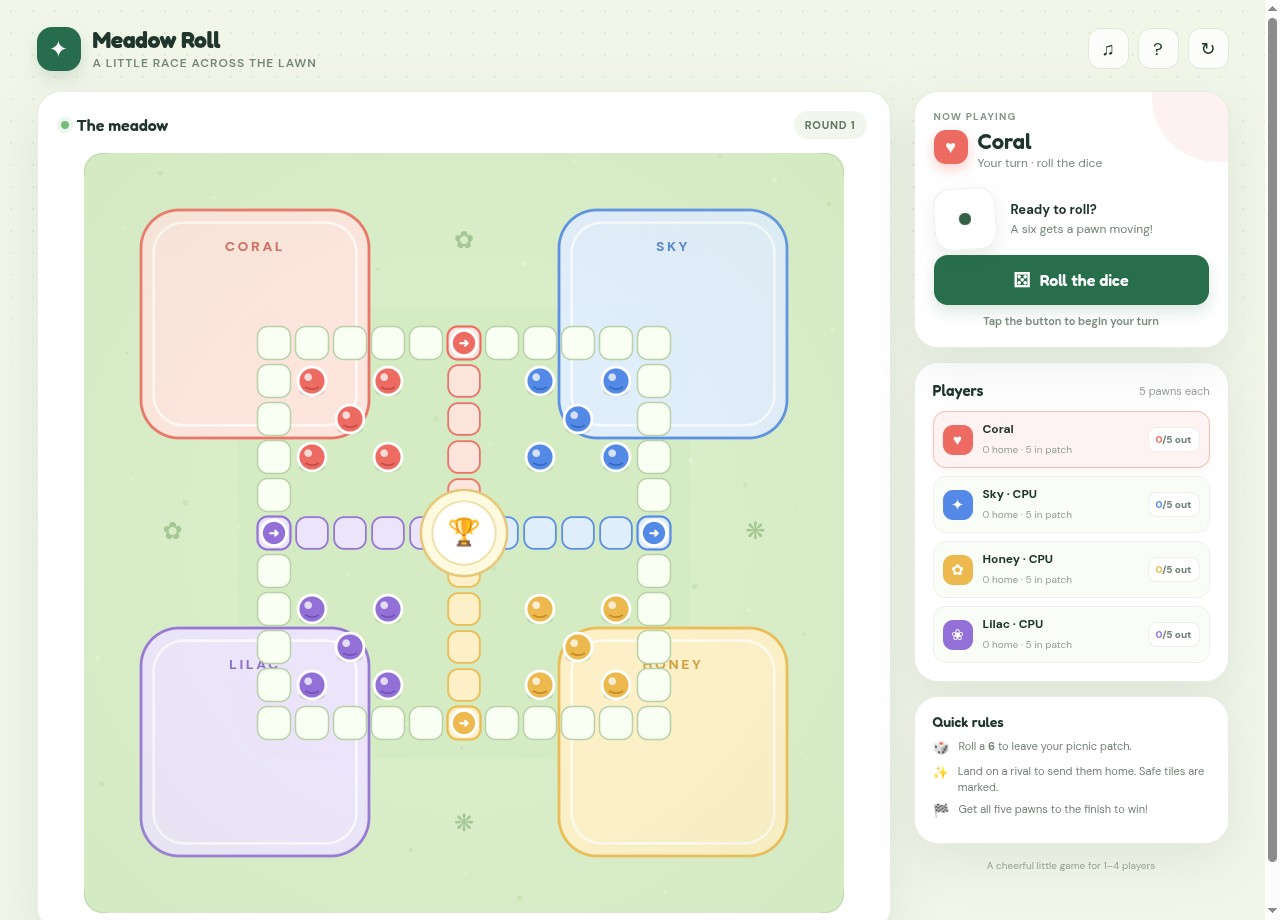
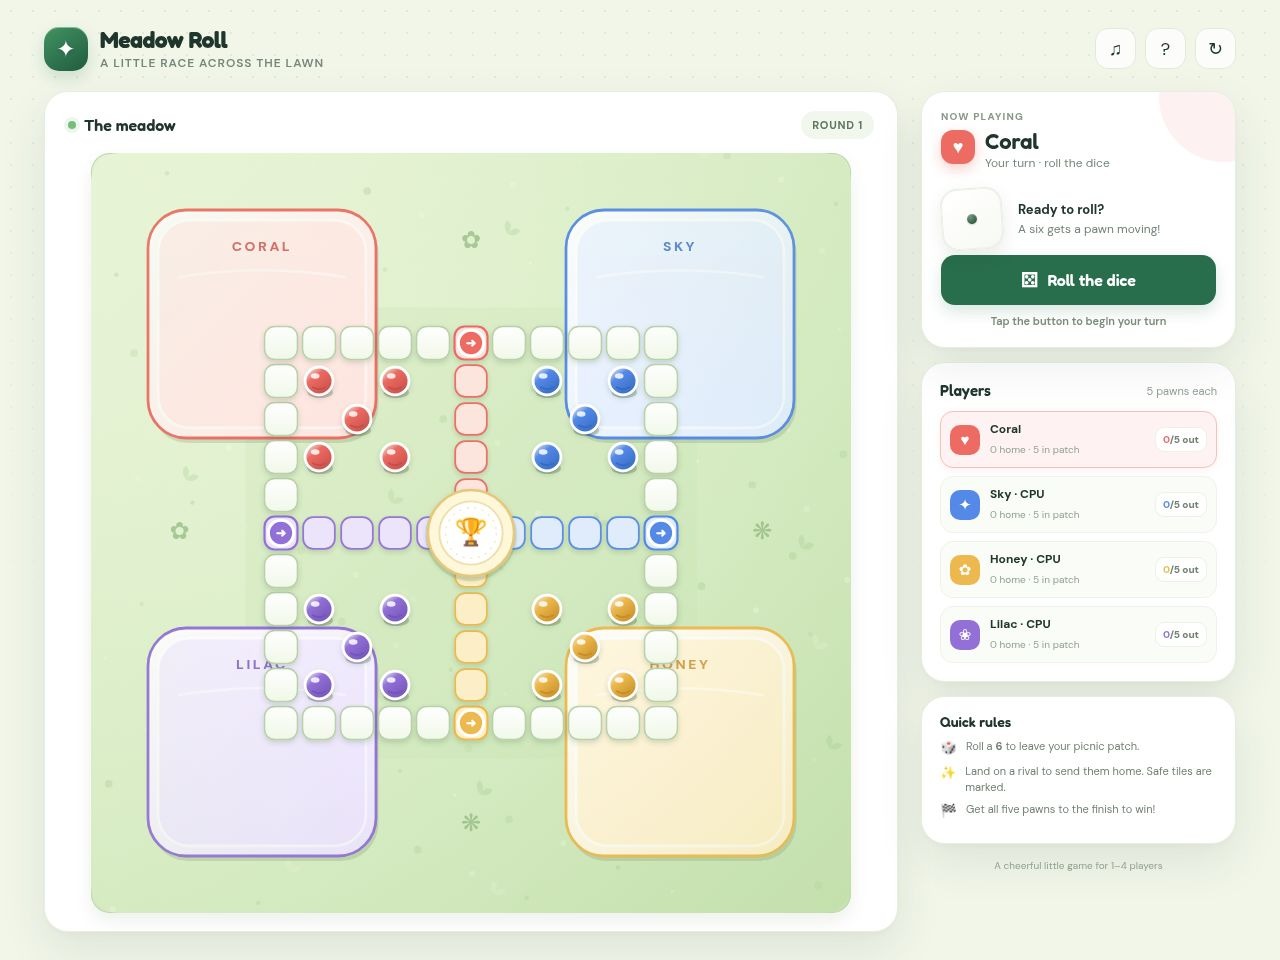
Publish static build for issue #2
Run: 43304931726
Attempt: 1
Generation: 5
Source: 047e4c399a43c13aad24060ff325a0cad421de42

diff --git a/index.html b/index.html
@@ -11,11 +11,11 @@
 *{box-sizing:border-box}body{margin:0;min-height:100vh;background:#f1f6e9;color:var(--ink);font-family:'DM Sans',sans-serif;overflow-x:hidden}
 body:before{content:"";position:fixed;inset:0;pointer-events:none;opacity:.22;background-image:radial-gradient(#9dbb87 1px,transparent 1px);background-size:22px 22px;mask-image:linear-gradient(to bottom,black,transparent 70%)}
 button{font:inherit;color:inherit}.app{max-width:1260px;margin:auto;padding:26px 34px 32px;position:relative}
-.topbar{display:flex;align-items:center;justify-content:space-between;margin-bottom:20px}.brand{display:flex;align-items:center;gap:12px}.brand-mark{width:44px;height:44px;border-radius:15px;background:#276c4c;display:grid;place-items:center;box-shadow:0 7px 16px #2868452b;color:#fff;font-size:23px}.brand h1{font:700 23px 'Fredoka',sans-serif;margin:0;letter-spacing:-.4px}.brand p{margin:2px 0 0;color:var(--muted);font-size:12px;font-weight:600;letter-spacing:.08em;text-transform:uppercase}.top-actions{display:flex;gap:9px}.icon-btn{width:41px;height:41px;border:1px solid #e1e9da;background:#ffffffc9;border-radius:13px;cursor:pointer;font-size:18px;transition:.18s}.icon-btn:hover{transform:translateY(-2px);background:white;box-shadow:0 5px 15px #213c2414}
-.main{display:grid;grid-template-columns:minmax(0,1fr) 315px;gap:23px;align-items:start}.board-card,.side-card{background:#fff;border:1px solid #e7eee1;border-radius:24px;box-shadow:var(--shadow)}.board-card{padding:18px;overflow:hidden}.board-top{display:flex;justify-content:space-between;align-items:center;padding:1px 5px 14px}.board-title{font:600 16px 'Fredoka',sans-serif;display:flex;align-items:center;gap:8px}.live-dot{height:8px;width:8px;border-radius:50%;background:#75bd79;box-shadow:0 0 0 4px #75bd7921}.turn-pill{padding:7px 11px;background:#f2f7ed;border-radius:999px;color:#607660;font-weight:700;font-size:11px;letter-spacing:.07em;text-transform:uppercase}.board-wrap{position:relative;max-width:760px;margin:auto;aspect-ratio:1;border-radius:19px;overflow:hidden;background:#d9edc9;box-shadow:inset 0 0 0 1px #bfd8b0}
+.topbar{display:flex;align-items:center;justify-content:space-between;margin-bottom:20px}.brand{display:flex;align-items:center;gap:12px}.brand-mark{width:44px;height:44px;border-radius:15px;background:linear-gradient(145deg,#429363,#205b3e);display:grid;place-items:center;box-shadow:0 7px 16px #2868452b,inset 0 1px 0 #ffffff66;color:#fff;font-size:23px;text-shadow:0 2px 3px #174b3244}.brand h1{font:700 23px 'Fredoka',sans-serif;margin:0;letter-spacing:-.4px}.brand p{margin:2px 0 0;color:var(--muted);font-size:12px;font-weight:600;letter-spacing:.08em;text-transform:uppercase}.top-actions{display:flex;gap:9px}.icon-btn{width:41px;height:41px;border:1px solid #e1e9da;background:#ffffffc9;border-radius:13px;cursor:pointer;font-size:18px;transition:.18s}.icon-btn:hover{transform:translateY(-2px);background:white;box-shadow:0 5px 15px #213c2414}
+.main{display:grid;grid-template-columns:minmax(0,1fr) 315px;gap:23px;align-items:start}.board-card,.side-card{background:#fff;border:1px solid #e7eee1;border-radius:24px;box-shadow:0 18px 48px #243a2917,0 3px 9px #243a2908,inset 0 1px 0 #ffffff}.board-card{padding:18px;overflow:hidden}.board-top{display:flex;justify-content:space-between;align-items:center;padding:1px 5px 14px}.board-title{font:600 16px 'Fredoka',sans-serif;display:flex;align-items:center;gap:8px}.live-dot{height:8px;width:8px;border-radius:50%;background:#75bd79;box-shadow:0 0 0 4px #75bd7921}.turn-pill{padding:7px 11px;background:#f2f7ed;border-radius:999px;color:#607660;font-weight:700;font-size:11px;letter-spacing:.07em;text-transform:uppercase}.board-wrap{position:relative;max-width:760px;margin:auto;aspect-ratio:1;border-radius:19px;overflow:hidden;background:linear-gradient(145deg,#eaf5dc,#cce4b8);box-shadow:inset 0 0 0 1px #bfd8b0,0 8px 18px #3d603017}
 #board{display:block;width:100%;height:100%}.board-under{position:absolute;inset:0;pointer-events:none;background:radial-gradient(ellipse at 50% 50%,transparent 42%,#b5d59a22 100%)}
 .sidebar{display:flex;flex-direction:column;gap:14px}.side-card{padding:18px}.turn-card{position:relative;overflow:hidden;padding:18px 19px 16px}.turn-card:after{content:"";position:absolute;width:130px;height:130px;border-radius:50%;right:-54px;top:-60px;background:var(--active,#74a970);opacity:.09}.eyebrow{font-size:10px;font-weight:800;letter-spacing:.12em;text-transform:uppercase;color:#879889}.turn-name{font:600 22px 'Fredoka',sans-serif;margin:5px 0 1px}.turn-sub{font-size:12px;color:var(--muted)}.turn-line{display:flex;align-items:center;gap:10px}.player-badge{width:34px;height:34px;border-radius:12px;background:var(--active,#74a970);display:grid;place-items:center;color:#fff;font-size:18px;box-shadow:0 5px 13px color-mix(in srgb,var(--active,#74a970) 32%,transparent)}
-.dice-zone{display:flex;align-items:center;gap:15px;padding:17px 0 5px}.dice{width:62px;height:62px;border-radius:17px;background:#fff;box-shadow:0 7px 18px #293e2018,inset 0 0 0 1px #edf0e9;display:grid;grid-template:repeat(3,1fr)/repeat(3,1fr);padding:11px;gap:3px;transform:rotate(-4deg);transition:transform .25s}.dice.rolling{animation:roll .5s ease-in-out}@keyframes roll{0%{transform:rotate(-4deg) scale(1)}40%{transform:rotate(95deg) scale(.8)}100%{transform:rotate(356deg) scale(1)}}.pip{border-radius:50%;background:#355f45;opacity:0}.pip.on{opacity:1}.dice-hint{font-size:12px;line-height:1.55;color:#718174}.dice-hint strong{display:block;font-size:13px;color:var(--ink)}
+.dice-zone{display:flex;align-items:center;gap:15px;padding:17px 0 5px}.dice{width:62px;height:62px;border-radius:17px;background:#fff;box-shadow:0 7px 18px #293e2018,inset 0 0 0 1px #edf0e9;display:grid;grid-template:repeat(3,1fr)/repeat(3,1fr);padding:11px;gap:3px;transform:rotate(-4deg);transition:transform .25s}.dice.rolling{animation:roll .5s ease-in-out}@keyframes roll{0%{transform:rotate(-4deg) scale(1)}40%{transform:rotate(95deg) scale(.8)}100%{transform:rotate(356deg) scale(1)}}.pip{border-radius:50%;background:radial-gradient(circle at 35% 30%,#72947b,#355f45 70%);opacity:0;box-shadow:inset 0 1px 1px #ffffff55,0 1px 2px #1f382b30}.pip.on{opacity:1}.dice{background:linear-gradient(145deg,#fff 10%,#f6f9f2 100%);border:1px solid #e8eee3}.dice-hint{font-size:12px;line-height:1.55;color:#718174}.dice-hint strong{display:block;font-size:13px;color:var(--ink)}
 .roll-btn{width:100%;border:0;border-radius:14px;background:#286e4c;color:white;font:600 16px 'Fredoka',sans-serif;padding:13px 15px;box-shadow:0 7px 15px #286e4c2b;cursor:pointer;transition:.16s;display:flex;align-items:center;justify-content:center;gap:9px}.roll-btn:hover:not(:disabled){background:#205f40;transform:translateY(-2px);box-shadow:0 10px 19px #286e4c38}.roll-btn:disabled{opacity:.55;cursor:not-allowed;box-shadow:none}.roll-btn span{font-size:20px}.select-hint{min-height:17px;text-align:center;margin:9px 0 0;font-size:11px;color:#7a8a7c;font-weight:600}
 .players-heading{display:flex;align-items:center;justify-content:space-between;margin-bottom:11px}.players-heading h2{font:600 15px 'Fredoka',sans-serif;margin:0}.players-heading span{color:#93a094;font-size:11px}.player-list{display:flex;flex-direction:column;gap:8px}.player-row{display:flex;align-items:center;gap:10px;padding:9px;border-radius:13px;background:#fafcf8;border:1px solid #eff2ec;transition:.18s}.player-row.active{border-color:color-mix(in srgb,var(--c) 44%,white);background:color-mix(in srgb,var(--c) 8%,white);box-shadow:0 3px 9px color-mix(in srgb,var(--c) 8%,transparent)}.player-icon{width:30px;height:30px;border-radius:10px;background:var(--c);color:white;display:grid;place-items:center;font-size:15px}.player-info{flex:1;min-width:0}.player-info b{font-size:12px;display:block}.player-info small{color:#91a092;font-size:10px}.pawn-count{background:white;border:1px solid #edf1e9;border-radius:9px;padding:5px 7px;font-size:10px;font-weight:800;color:#718174;white-space:nowrap}.pawn-count em{font-style:normal;color:var(--c)}
 .rules{padding:16px 18px}.rules h3{margin:0 0 9px;font:600 14px 'Fredoka',sans-serif}.rule-line{display:flex;gap:9px;margin:7px 0;align-items:flex-start;color:#738174;font-size:11px;line-height:1.4}.rule-icon{font-size:13px;width:17px;text-align:center}.bottom-note{text-align:center;color:#91a18e;font-size:10px;padding-top:1px}
@@ -62,21 +62,23 @@ function cellPoint(coord){return[90+coord[0]*30,90+coord[1]*30]}
 function trackCoord(player,progress){if(progress<40)return TRACK[(COLORS[player].start+progress)%40];return HOME_LANES[player][progress-40]}
 function svgText(parent,x,y,text,attrs={}){const t=svg('text',{x,y,...attrs},parent);t.textContent=text;return t}
 function buildBoard(){const board=$('#board');board.innerHTML='';
- svg('rect',{x:0,y:0,width:600,height:600,rx:22,fill:'#d9edc9'},board);
+  const defs=svg('defs',{},board),grass=svg('linearGradient',{id:'grassGradient',x1:'0',y1:'0',x2:'1',y2:'1'},defs);svg('stop',{offset:'0','stop-color':'#eff8df'},grass);svg('stop',{offset:'.55','stop-color':'#d9edc6'},grass);svg('stop',{offset:'1','stop-color':'#c6e1af'},grass);const tile=svg('linearGradient',{id:'tileGradient',x1:'0',y1:'0',x2:'0',y2:'1'},defs);svg('stop',{offset:'0','stop-color':'#fff'},tile);svg('stop',{offset:'1','stop-color':'#f1f8e9'},tile);const shadow=svg('filter',{id:'softShadow',x:'-40%',y:'-40%',width:'180%',height:'190%'},defs);svg('feDropShadow',{dx:'0',dy:'2',stdDeviation:'2','flood-color':'#35573a','flood-opacity':'.2'},shadow);COLORS.forEach((col,p)=>{const pg=svg('linearGradient',{id:'pawnGradient'+p,x1:'0',y1:'0',x2:'0.8',y2:'1'},defs);svg('stop',{offset:'0','stop-color':'#fff','stop-opacity':'.48'},pg);svg('stop',{offset:'.38','stop-color':col.hex},pg);svg('stop',{offset:'1','stop-color':col.dark},pg);const bg=svg('linearGradient',{id:'baseGradient'+p,x1:'0',y1:'0',x2:'1',y2:'1'},defs);svg('stop',{offset:'0','stop-color':'#fff'},bg);svg('stop',{offset:'1','stop-color':col.light},bg)});
+ svg('rect',{x:0,y:0,width:600,height:600,rx:22,fill:'url(#grassGradient)'},board);
  // softly mottled grass texture
- for(let i=0;i<64;i++){const x=(i*89+31)%600,y=(i*137+59)%600;svg('circle',{cx:x,cy:y,r:1.2+(i%3)*.5,fill:i%2?'#b7d99f':'#eef8df',opacity:.45},board)}
+ for(let i=0;i<120;i++){const x=(i*89+31)%600,y=(i*137+59)%600,r=1.1+(i%4)*.65;svg('circle',{cx:x,cy:y,r,fill:i%2?'#a9cf91':'#f6ffe9',opacity:.25+(i%3)*.06},board)}
+  for(let i=0;i<24;i++){const x=(i*173+42)%600,y=(i*97+21)%600;svg('path',{d:`M${x} ${y}q-5 -7 0 -11q5 5 0 11m0 0q5 -7 10 -3q-3 6 -10 3`,fill:i%2?'#88b875':'#f5f9df',opacity:.2},board)}
  svg('rect',{x:122,y:122,width:356,height:356,rx:30,fill:'#c8e3b4',opacity:.28},board);
  // four picnic home patches
  const bases=[{x:45,y:45,c:0},{x:375,y:45,c:1},{x:375,y:375,c:2},{x:45,y:375,c:3}];
- bases.forEach(({x,y,c})=>{const col=COLORS[c];svg('rect',{x,y,width:180,height:180,rx:30,fill:col.light,stroke:col.hex,'stroke-width':2.2,opacity:.94},board);svg('rect',{x:x+10,y:y+10,width:160,height:160,rx:24,fill:'none',stroke:'#ffffff','stroke-width':2,opacity:.75},board);svgText(board,x+90,y+32,col.name.toUpperCase(),{'text-anchor':'middle','font-size':11,'font-weight':800,'letter-spacing':2,fill:col.dark,opacity:.8});});
+ bases.forEach(({x,y,c})=>{const col=COLORS[c];svg('rect',{x:x+2,y:y+4,width:180,height:180,rx:30,fill:'#536d4930'},board);svg('rect',{x,y,width:180,height:180,rx:30,fill:`url(#baseGradient${c})`,stroke:col.hex,'stroke-width':2.2,opacity:.97},board);svg('rect',{x:x+8,y:y+8,width:164,height:164,rx:25,fill:col.light,stroke:'#ffffff','stroke-width':2,opacity:.52},board);svg('path',{d:`M${x+24} ${y+53} Q${x+90} ${y+42} ${x+156} ${y+53}`,fill:'none',stroke:'#fff','stroke-width':2,opacity:.45},board);svgText(board,x+90,y+32,col.name.toUpperCase(),{'text-anchor':'middle','font-size':11,'font-weight':800,'letter-spacing':2,fill:col.dark,opacity:.8});});
  // track slabs
- TRACK.forEach((coord,i)=>{const[x,y]=cellPoint(coord);const owner=SAFE.includes(i)?COLORS[i/10]:null;svg('rect',{x:x-13,y:y-13,width:26,height:26,rx:8,fill:owner?owner.light:'#fafff3',stroke:owner?owner.hex:'#b9d1a9','stroke-width':owner?1.7:1.2},board);if(owner){svg('circle',{cx:x,cy:y,r:4,fill:owner.hex,opacity:.55},board);svgText(board,x,y+3.5,'✦',{'text-anchor':'middle','font-size':8,fill:'#fff'})}});
+ TRACK.forEach((coord,i)=>{const[x,y]=cellPoint(coord);const owner=SAFE.includes(i)?COLORS[i/10]:null;svg('rect',{x:x-13,y:y-13,width:26,height:26,rx:8,fill:owner?owner.light:'url(#tileGradient)',stroke:owner?owner.hex:'#b9d1a9','stroke-width':owner?1.7:1.2,filter:'url(#softShadow)'},board);if(owner){svg('circle',{cx:x,cy:y,r:4,fill:owner.hex,opacity:.55},board);svgText(board,x,y+3.5,'✦',{'text-anchor':'middle','font-size':8,fill:'#fff'})}});
  // start arrows / small color launch markers
  COLORS.forEach((col,p)=>{const c=TRACK[col.start],[x,y]=cellPoint(c);svg('circle',{cx:x,cy:y,r:10,fill:col.hex,stroke:'#fff','stroke-width':2.4},board);svgText(board,x,y+3.3,'➜',{'text-anchor':'middle','font-size':10,fill:'#fff','font-weight':800})});
  // home lanes
- HOME_LANES.forEach((lane,p)=>lane.forEach((coord,j)=>{const[x,y]=cellPoint(coord);svg('rect',{x:x-12.5,y:y-12.5,width:25,height:25,rx:8,fill:j===4?COLORS[p].hex:COLORS[p].light,stroke:COLORS[p].hex,'stroke-width':1.4,opacity:j===4?1:.94},board);if(j===4)svgText(board,x,y+5,'★',{'text-anchor':'middle','font-size':14,fill:'#fff'})}));
+ HOME_LANES.forEach((lane,p)=>lane.forEach((coord,j)=>{const[x,y]=cellPoint(coord);svg('rect',{x:x-12.5,y:y-12.5,width:25,height:25,rx:8,fill:j===4?COLORS[p].hex:COLORS[p].light,stroke:COLORS[p].hex,'stroke-width':1.4,opacity:j===4?1:.94,filter:'url(#softShadow)'},board);if(j===4)svgText(board,x,y+5,'★',{'text-anchor':'middle','font-size':14,fill:'#fff'})}));
  // center finish flower
- svg('circle',{cx:300,cy:300,r:34,fill:'#fff9df',stroke:'#e7c779','stroke-width':2},board);svg('circle',{cx:300,cy:300,r:25,fill:'#fff',stroke:'#f0dfab','stroke-width':1.5},board);svgText(board,300,306,'🏆',{'text-anchor':'middle','font-size':21});
+ svg('circle',{cx:300,cy:302,r:36,fill:'#718a4b30'},board);svg('circle',{cx:300,cy:300,r:34,fill:'#fff7d9',stroke:'#e7c779','stroke-width':2,filter:'url(#softShadow)'},board);svg('circle',{cx:300,cy:300,r:25,fill:'#fff',stroke:'#f0dfab','stroke-width':1.5},board);svg('circle',{cx:300,cy:300,r:20,fill:'none',stroke:'#f5e9c2','stroke-width':1,'stroke-dasharray':'2 4'},board);svgText(board,300,306,'🏆',{'text-anchor':'middle','font-size':21});
  // yard pawns: five spots in each home patch
  const yards=[[[3,3],[5,3],[3,5],[5,5],[4,4]],[[9,3],[11,3],[9,5],[11,5],[10,4]],[[9,9],[11,9],[9,11],[11,11],[10,10]],[[3,9],[5,9],[3,11],[5,11],[4,10]]];
  state.players.forEach((player,p)=>player.pawns.forEach((pos,n)=>{if(pos===-1){const[x,y]=cellPoint(yards[p][n]);drawPawn(board,p,n,x,y,true)}}));
@@ -84,7 +86,7 @@ function buildBoard(){const board=$('#board');board.innerHTML='';
  [[70,300],[530,300],[300,70],[300,530]].forEach(([x,y],i)=>{svgText(board,x,y+5,i%2?'❋':'✿',{'text-anchor':'middle','font-size':19,fill:'#80ad70',opacity:.6})});
  drawActivePawns(board);
 }
-function drawPawn(parent,p,n,cx,cy,home=false){const col=COLORS[p],g=svg('g',{class:'pawn '+(home?'yard':'') , 'data-player':p,'data-pawn':n},parent);svg('ellipse',{cx,cy:cy+8,rx:10,ry:4,fill:'#405c3c',opacity:.2},g);svg('circle',{cx,cy,r:11,fill:col.hex,stroke:'#fff','stroke-width':2.2},g);svg('circle',{cx:cx-3,cy:cy-3,r:3,fill:'#fff',opacity:.75},g);svg('path',{d:`M${cx-5} ${cy+5} Q${cx} ${cy+8} ${cx+5} ${cy+5}`,fill:'none',stroke:col.dark,'stroke-width':1.4,'stroke-linecap':'round'},g);if(!home){svg('circle',{cx,cy,r:15,fill:'transparent',stroke:'transparent','stroke-width':2,class:'pawn-ring'},g)}}
+function drawPawn(parent,p,n,cx,cy,home=false){const col=COLORS[p],g=svg('g',{class:'pawn '+(home?'yard':'') , 'data-player':p,'data-pawn':n},parent);svg('ellipse',{cx:cx+1,cy:cy+9,rx:10,ry:4.5,fill:'#304b35',opacity:.25},g);svg('circle',{cx,cy:cy+1,r:12,fill:col.dark,opacity:.22},g);svg('circle',{cx,cy,r:11,fill:`url(#pawnGradient${p})`,stroke:'#fff','stroke-width':2.2,filter:'url(#softShadow)'},g);svg('ellipse',{cx:cx-3,cy:cy-4,rx:3.4,ry:2.2,fill:'#fff',opacity:.83},g);svg('path',{d:`M${cx-5} ${cy+5} Q${cx} ${cy+8} ${cx+5} ${cy+5}`,fill:'none',stroke:col.dark,'stroke-width':1.4,'stroke-linecap':'round'},g);if(!home){svg('circle',{cx,cy,r:15,fill:'transparent',stroke:'transparent','stroke-width':2,class:'pawn-ring'},g)}}
 function drawActivePawns(board){const yards=[[[3,3],[5,3],[3,5],[5,5],[4,4]],[[9,3],[11,3],[9,5],[11,5],[10,4]],[[9,9],[11,9],[9,11],[11,11],[10,10]],[[3,9],[5,9],[3,11],[5,11],[4,10]]];
  state.players.forEach((pl,p)=>pl.pawns.forEach((progress,n)=>{if(progress<0)return;const coord=trackCoord(p,progress),[x,y]=cellPoint(coord);let same=[];state.players.forEach((other,op)=>other.pawns.forEach((v,on)=>{if(v>=0){const cc=trackCoord(op,v);if(cc[0]===coord[0]&&cc[1]===coord[1])same.push([op,on])}}));const idx=same.findIndex(z=>z[0]===p&&z[1]===n),offsets=[[0,0],[-7,-6],[7,-6],[-7,6],[7,6],[-10,0],[10,0]];const o=offsets[idx]||[0,0];drawPawn(board,p,n,x+o[0],y+o[1]);const node=board.lastChild;if(state.phase==='select'&&p===state.turn&&state.legal?.includes(n)){node.classList.add('legal');node.style.cursor='pointer';node.querySelector('.pawn-ring').setAttribute('stroke',COLORS[p].hex);node.querySelector('.pawn-ring').setAttribute('stroke-dasharray','3 2');node.querySelector('circle:nth-child(2)').setAttribute('stroke-width','3');node.addEventListener('click',()=>movePawn(n))}}));
  // Attach click targets to yard pieces too when legal
